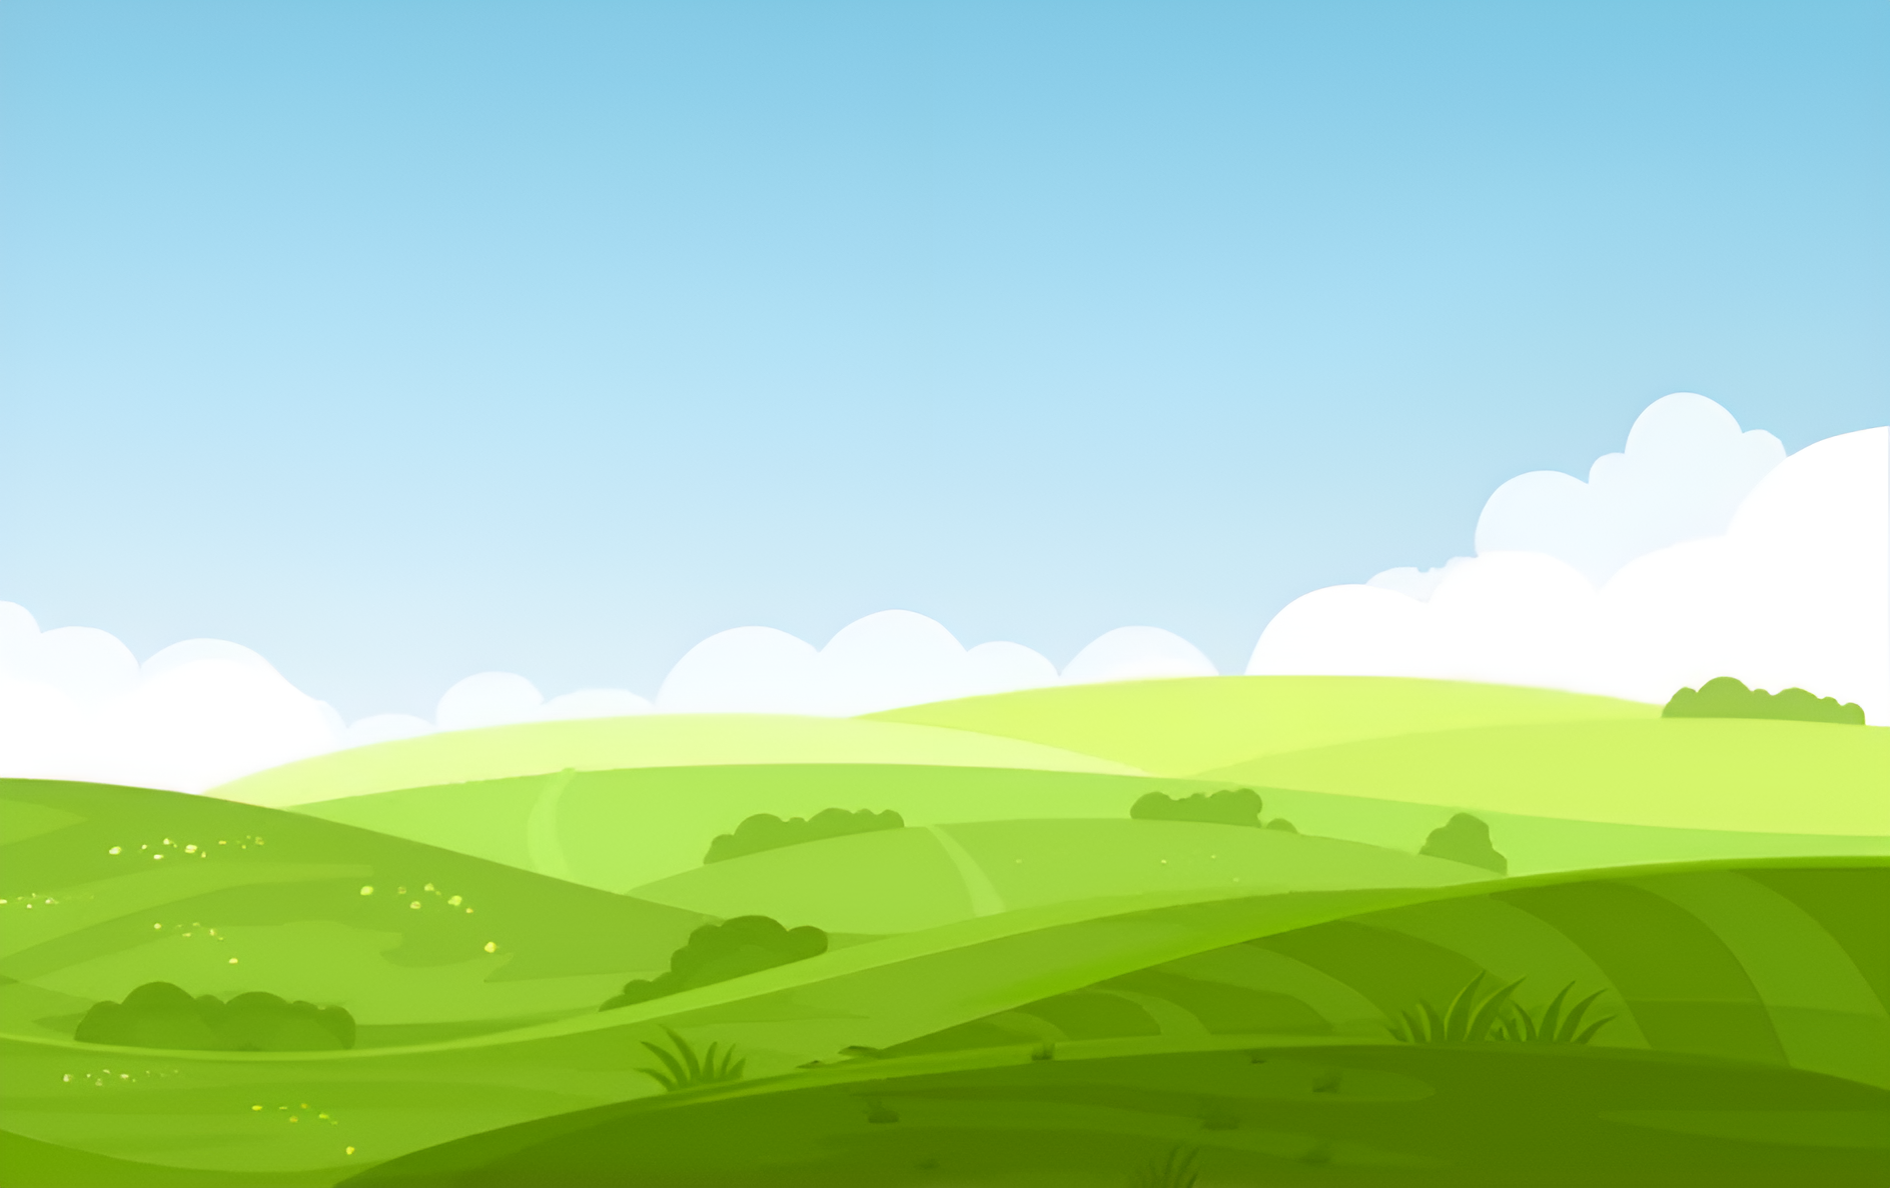
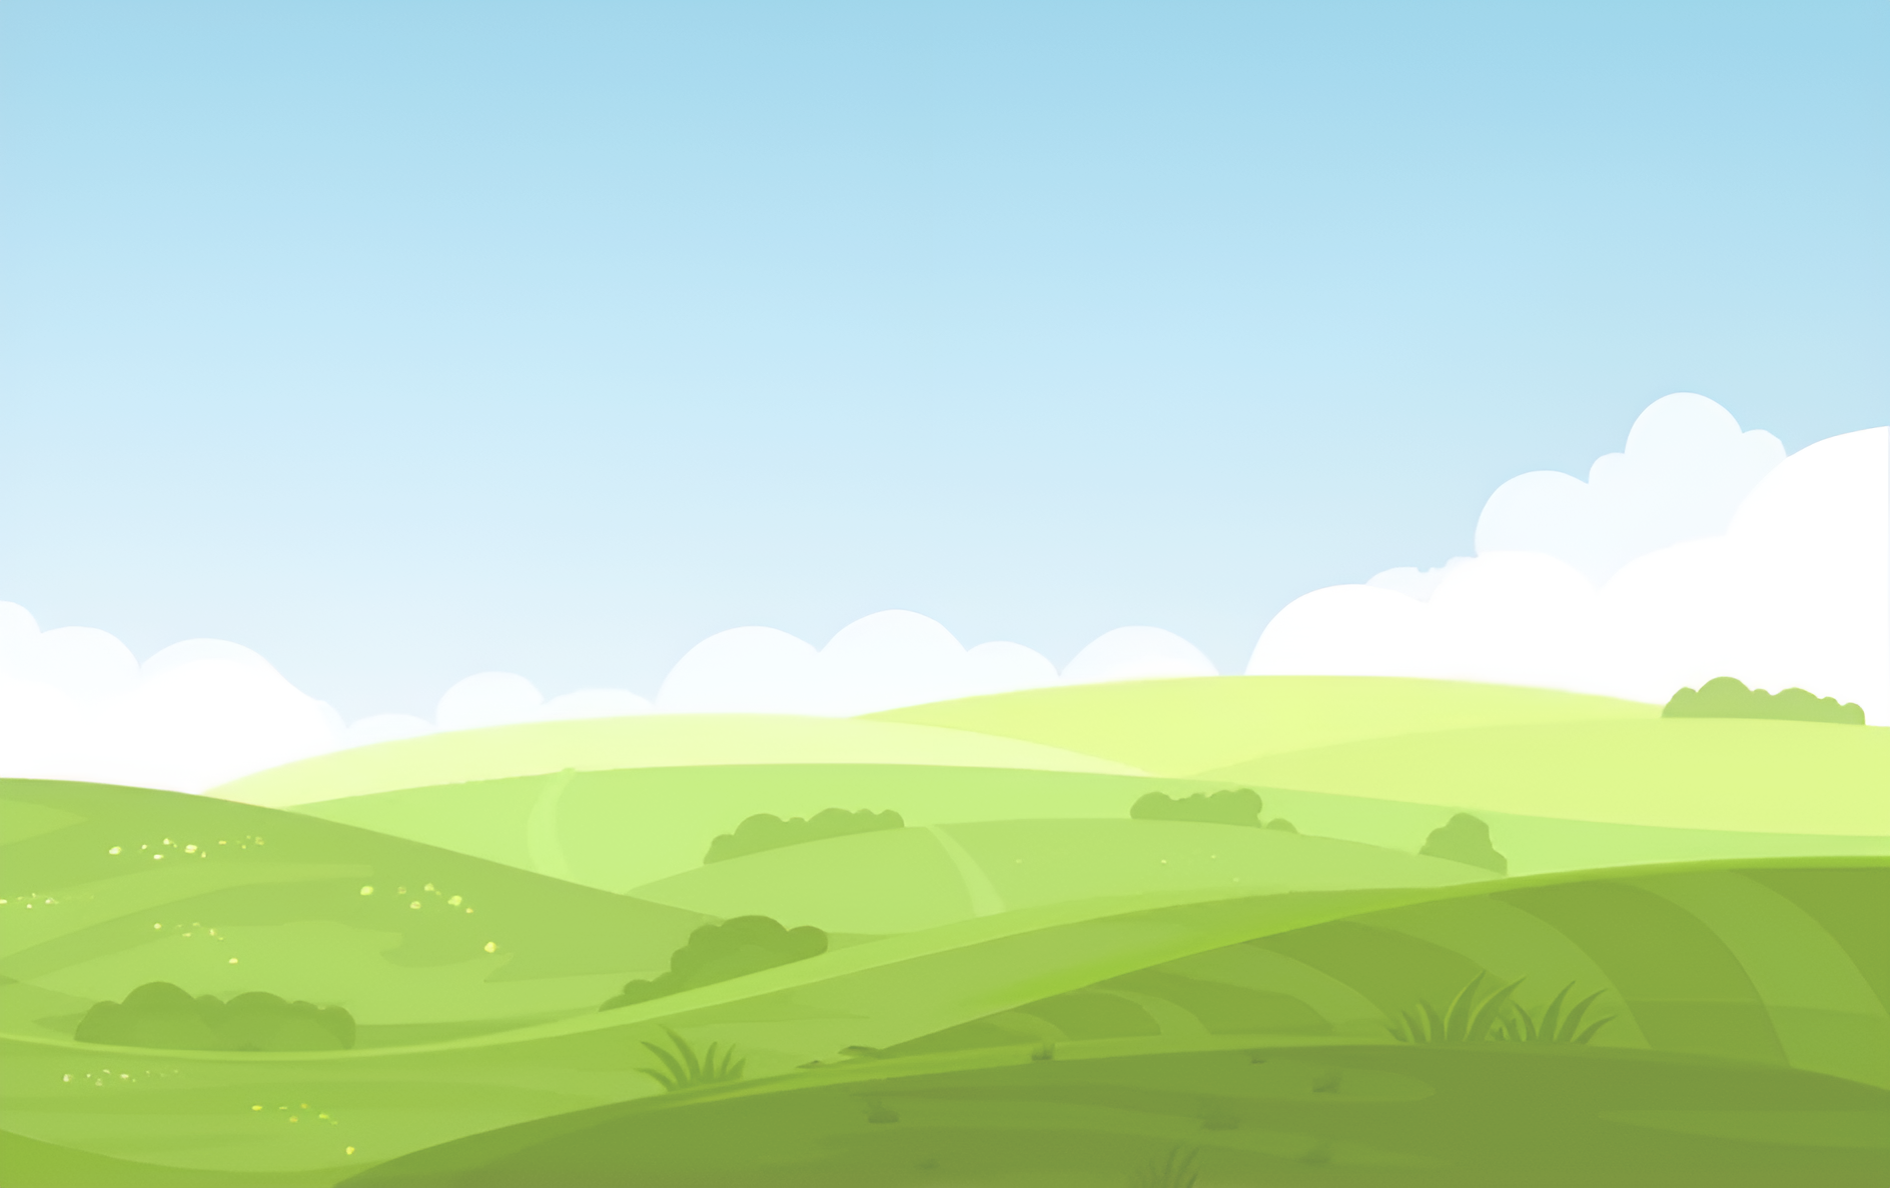
added background image in not found and added the picture to images

diff --git a/src/css/notFoundCss/notFound.css b/src/css/notFoundCss/notFound.css
@@ -8,12 +8,12 @@
     color: #333;
     font-family: Arial, sans-serif;
     text-align: center;
-    /* background-image: url("src/images/bg_404.png"); */
+    background-image: url("src/images/bg_404.png");
     background-size: cover;
     background-repeat: no-repeat;
     background-position: center;
     width: 100%;
-    border-radius: 80px;
+    
   }
   
   .content-box {
